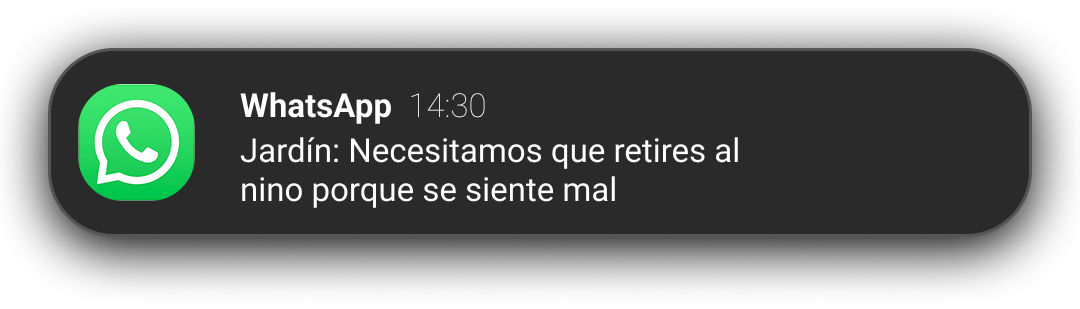
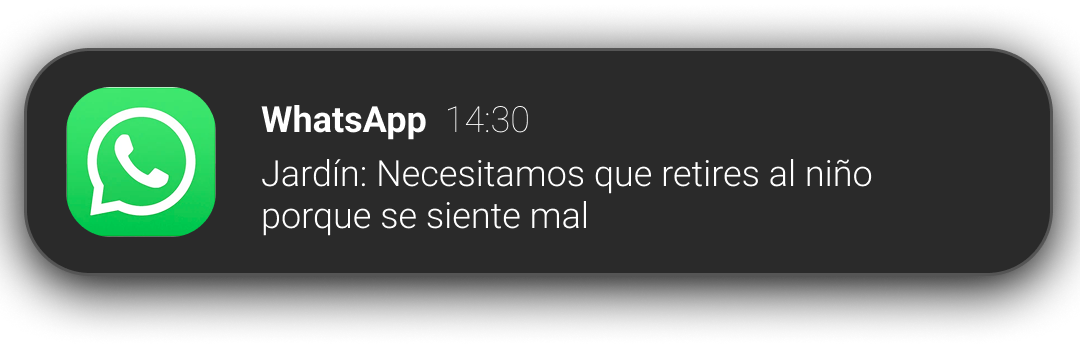
se cambiaron las imagenes de notificaciones por contenido html y css

Changed region(s): [[0.0, 0.1165, 1.0, 0.9029]]

diff --git a/assets/css/styles.css b/assets/css/styles.css
@@ -48,7 +48,7 @@
     margin-top: 40%;
 }
 
-#pantalla-2 h1{
+#textos h1{
     font-size: 4em;
 }
 
@@ -57,6 +57,38 @@
 }
 
 
-#pantalla-2 img{
+.notificacion{
+    margin-top: 5%;
+    background-color: rgba(0, 0, 0, 0.53);
+    border: solid rgba(255, 254, 254, 0.18);
+    justify-content: center;
+    align-items: center;
+    border-radius: 20px;
+    padding-top: 4%;
+    padding-bottom: 4%;
+    padding-left: 6%;
+    padding-right: 6%;
     width: 100%;
+    display: flex;
+    gap: 6%;
+    font-size: medium;
+    text-align: left;
+}
+
+.icono-noti img{
+    border-radius: 10px;
+}
+
+.titulo-noti{
+    font-size: 1em;   /* o 1.2em, lo que te guste */
+    font-weight: 500; /* por si lo querés un poco menos bold */
+    margin-bottom: 2%;
+}
+.hora-noti{
+  font-size: 0.8em;
+  font-weight: 400;
+  opacity: 0.8;
+}
+.contenido-noti{
+    font-weight: 200;
 }

diff --git a/index.html b/index.html
@@ -23,8 +23,21 @@
             <h1>14:30</h1>
             <h3>martes 9 de diciembre</h3>
           </div>
-          <div>
-            <img src="assets/imgs/notificacionjardin.png" alt="notificacion" />
+
+          <div class="notificacion">
+            <div class="icono-noti">
+              <img src="assets/imgs/icono-wtsap.png" alt="icono" />
+            </div>
+            <div class="textos-noti">
+              <h1 class="titulo-noti">
+                WhatsApp
+                <span class="hora-noti">14:30</span>
+              </h1>
+
+              <p class="contenido-noti">
+                El niño se siente mal necesitamos que lo retire
+              </p>
+            </div>
           </div>
         </div>
       </div>
